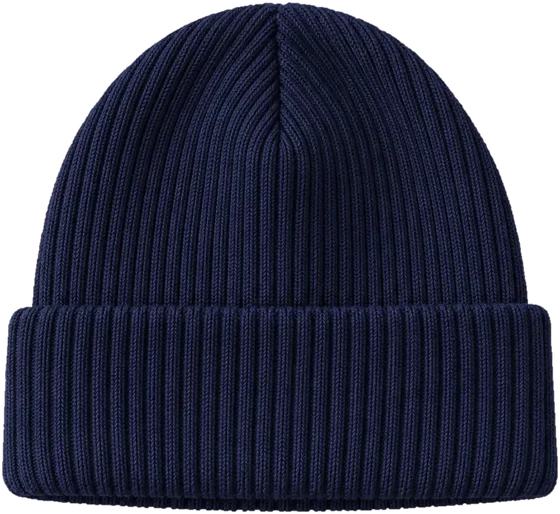
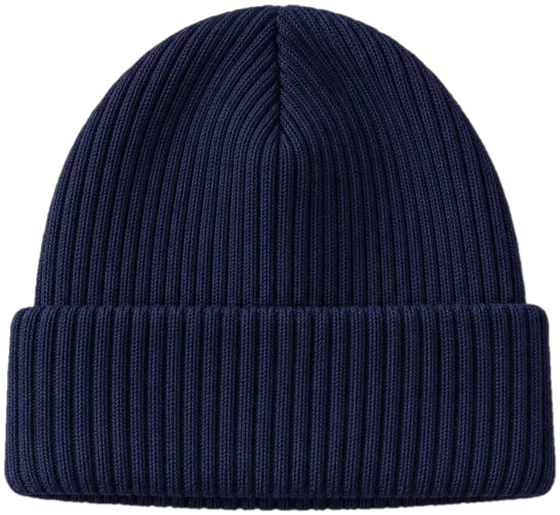
Rail cut-outs: softer, cleaner edges
Claude-Session: https://claude.ai/code/session_01DS9CDmNfTq1Sye1W8JWVjs

Changed region(s): [[0.0, 0.0, 1.0, 0.9961], [0.5464, 0.7782, 0.5768, 0.8093]]

diff --git a/CLAUDE.md b/CLAUDE.md
@@ -101,7 +101,9 @@ language with short, numbered steps.
      the faced piece) scaled to the width, sized on resize only. Data from CATALOGUE (exposed as
      window.CATALOGUE; go() and lenis exposed as window.go / window.__lenis). Each garment has its
      own 100px hit strip (.rl-hit) so overlapping boxes don't steal taps. Cut-outs in images/rail/
-     (garments from the studio photos + their masks; caps/beanie by GrabCut). This is the ONE place
+     (garments from the studio photos + their masks; caps/beanie by GrabCut; Nov 2026 re-made with
+     soft edges: outline smoothed, edge pulled in 1px, alpha feathered ~1.6px, grey edge colour
+     removed, WebP q90 — owner found the first cut-outs too sharp). This is the ONE place
      backgrounds are removed; catalogue and studio photos keep their grey backgrounds. Then the three
      steps (Send your idea, Approve your sample, Wear it) in a row (stacked on phone) and "No
      minimum order · Design help included". The sewing machine hero was replaced and is saved in
